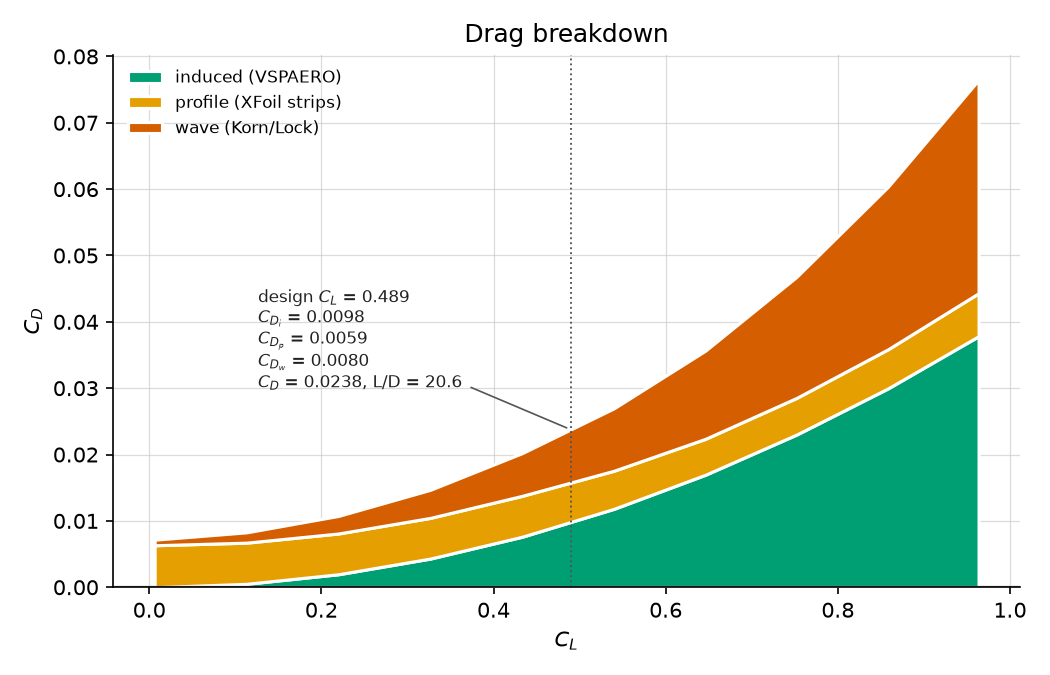
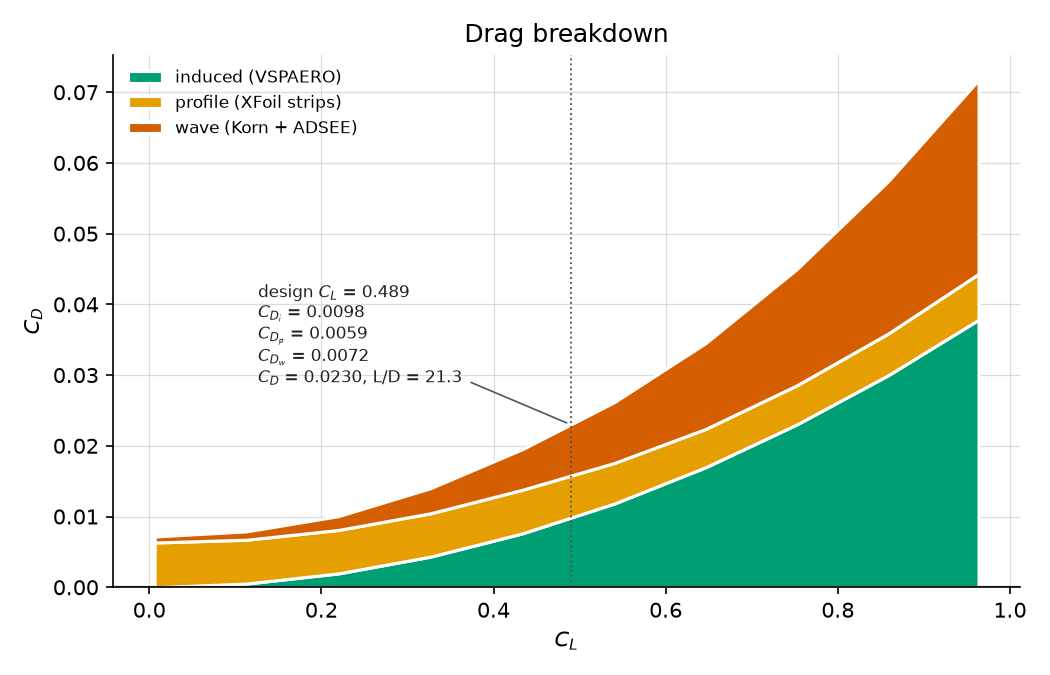
Fixing the labels and assumptions for stall

diff --git a/wp2/src/b12wp2/wing/vspaero.py b/wp2/src/b12wp2/wing/vspaero.py
@@ -1,10 +1,10 @@
 # SPDX-License-Identifier: GPL-3.0-or-later
 # Copyright (C) 2026 Mateusz Suszynski
 # Created: 2026-09-22
-"""3D wing analysis at cruise: VSPAERO (VLM) + XFoil profile drag + Korn/Lock
+"""3D wing analysis at cruise: VSPAERO (VLM) + XFoil profile drag + ADSEE
 wave drag, for the wing of b12wp2.wing.geometry with NACA 25112 sections.
 
-    CD = CDi (VSPAERO, Trefftz plane) + CD_profile (XFoil strips) + CD_wave (Korn/Lock)
+    CD = CDi (VSPAERO, Trefftz plane) + CD_profile (XFoil strips) + CD_wave (ADSEE)
 
 - VSPAERO: inviscid VLM angle-of-attack sweep at the cruise condition of
   config.CRUISE. Kept: CL, CMy and the wake (Trefftz-plane) induced drag
@@ -13,7 +13,8 @@ wave drag, for the wing of b12wp2.wing.geometry with NACA 25112 sections.
 - Profile drag: the spanwise strip loads of every angle of attack are run
   through the XFoil cruise polar, see b12wp2.wing.viscous_correction.
 - Wave drag: XFoil models no shocks, so wave drag is added from the swept
-  Korn equation (kappa_A from config.kappa_a) and Lock's approximation.
+  Korn equation (kappa_A from config.kappa_a) and the ADSEE drag-rise
+  formula, see b12wp2.wing.viscous_correction.wave_drag.
 
 Lift and pitching moment stay inviscid (no viscous decambering); only drag
 is corrected.
@@ -207,8 +208,8 @@ def build_polar(
             vc.sweep_drag_factor(SWEEP_DRAG_MODE_SENSITIVITY, config.SWEEP_RAD)
             / vc.sweep_drag_factor(SWEEP_DRAG_MODE, config.SWEEP_RAD)
         )
-        m_dd, m_crit = vc.korn_swept(KAPPA_A, T_C, float(p["CL"]), SWEEP_KORN)
-        cd_wave = vc.lock_wave_drag(MACH, m_crit)
+        m_dd = vc.korn_swept(KAPPA_A, T_C, float(p["CL"]), SWEEP_KORN)
+        cd_wave = vc.wave_drag(MACH, m_dd)
         cd = p["CDi"] + cd_prof + cd_wave
         ratio = s_out["cl_n"] / cl_max_n
         rows.append(
@@ -216,7 +217,6 @@ def build_polar(
                 **p.to_dict(),
                 "CD_profile": cd_prof,
                 f"CD_profile_{SWEEP_DRAG_MODE_SENSITIVITY}": cd_prof_sens,
-                "M_crit": m_crit,
                 "M_dd": m_dd,
                 "CD_wave": cd_wave,
                 "CD": cd,
@@ -254,7 +254,7 @@ def summarise(polar: pd.DataFrame) -> dict[str, float]:
     ratio, cl_w = upper["max_cl_ratio"].to_numpy(), upper["CL"].to_numpy()
     cl_first_stall = float(np.interp(1.0, ratio, cl_w)) if ratio.max() >= 1.0 > ratio.min() else float("nan")
 
-    m_dd, m_crit = vc.korn_swept(KAPPA_A, T_C, CL_DESIGN, SWEEP_KORN)
+    m_dd = vc.korn_swept(KAPPA_A, T_C, CL_DESIGN, SWEEP_KORN)
     return {
         "CL_design": CL_DESIGN,
         "alpha_design": _at_cl(polar, "alpha", CL_DESIGN),
@@ -273,7 +273,6 @@ def summarise(polar: pd.DataFrame) -> dict[str, float]:
         "CL_alpha_per_rad": cl_alpha,
         "alpha_0L": _at_cl(polar, "alpha", 0.0),
         "CL_first_section_stall": cl_first_stall,
-        "M_crit_design": m_crit,
         "M_dd_design": m_dd,
         "mach": MACH,
         "t_c": T_C,

diff --git a/wp2/src/b12wp2/hld/sizing.py b/wp2/src/b12wp2/hld/sizing.py
@@ -8,6 +8,7 @@ For a device spanning eta_in..eta_out of the semi-span:
     dCL_max   = 0.9 * dcl_max * (S_wf / S) * cos(sweep_hinge)
     S' / S    = 1 + (S_wf / S) * (c'/c - 1)          -> CL_alpha' = CL_alpha * S'/S
     da_0L     = da_0L,airfoil * (S_wf / S) * cos(sweep_hinge)   (trailing edge only)
+    alpha_s   = CL_max / CL_alpha + alpha_0L + dalpha_CLmax      (DATCOM, high-AR wings)
 
 with S_wf the (full-chord) wing area covered by the device, dcl_max the
 airfoil increment of the device type (config.hld device tables), c'/c the chord
@@ -109,6 +110,12 @@ def device_effect(
     )
 
 
+def stall_angle(cl_max: float, cl_alpha_per_deg: float, alpha_0l_deg: float) -> float:
+    """High-AR wing stall angle [deg]: CL_max / CL_alpha + alpha_0L + dalpha_CLmax,
+    with dalpha_CLmax from the DATCOM chart (config.hld.DALPHA_CLMAX_DEG)."""
+    return cl_max / cl_alpha_per_deg + alpha_0l_deg + cfg.DALPHA_CLMAX_DEG
+
+
 @dataclass(frozen=True)
 class CleanWing:
     """Clean-wing lift characteristics (from VSPAERO + XFoil landing polar)."""
@@ -116,14 +123,11 @@ class CleanWing:
     cl_max: float
     cl_alpha_per_deg: float
     alpha_0l_deg: float
-    alpha_stall_deg: float
+    alpha_crit_deg: float  # wing alpha at which the first strip reaches the section cl_max
 
     @property
-    def alpha_offset_deg(self) -> float:
-        """Stall angle beyond the linear-lift intercept of CL_max:
-        alpha_stall - (alpha_0L + CL_max / CL_alpha). Carried over unchanged
-        to the flapped configurations."""
-        return self.alpha_stall_deg - (self.alpha_0l_deg + self.cl_max / self.cl_alpha_per_deg)
+    def alpha_stall_deg(self) -> float:
+        return stall_angle(self.cl_max, self.cl_alpha_per_deg, self.alpha_0l_deg)
 
 
 @dataclass(frozen=True)
@@ -153,8 +157,7 @@ def configuration(
     cl_max = clean.cl_max + dcl_max
     cl_alpha = clean.cl_alpha_per_deg * area_ratio
     alpha_0l = clean.alpha_0l_deg + dalpha_scale * (te.dalpha_0l_deg + le.dalpha_0l_deg)
-    alpha_stall = alpha_0l + cl_max / cl_alpha + clean.alpha_offset_deg
-    return Configuration(cl_max, cl_alpha, alpha_0l, alpha_stall)
+    return Configuration(cl_max, cl_alpha, alpha_0l, stall_angle(cl_max, cl_alpha, alpha_0l))
 
 
 def min_eta_out(

diff --git a/wp2/src/b12wp2/wing/viscous_correction.py b/wp2/src/b12wp2/wing/viscous_correction.py
@@ -148,25 +148,26 @@ def strip_profile_drag(
 
 
 # ============================================================
-#  WAVE DRAG (Korn equation + Lock's approximation)
+#  WAVE DRAG (ADSEE: Korn equation + empirical drag rise)
 # ============================================================
 
-# M_crit = M_dd - (0.1 / 80)^(1/3): the Mach at which Lock's
-# 20 (M - M_crit)^4 reaches dCD/dM = 0.1, i.e. the drag-divergence definition.
-KORN_MCRIT_OFFSET = (0.1 / 80) ** (1 / 3)
 
-
-def korn_swept(kappa_a: float, t_c: float, cl: float, sweep_rad: float) -> tuple[float, float]:
-    """(M_dd, M_crit) of a swept wing from the Korn equation with simple
-    sweep theory: M_dd = kappa/cos - (t/c)/cos^2 - CL/(10 cos^3).
+def korn_swept(kappa_a: float, t_c: float, cl: float, sweep_rad: float) -> float:
+    """M_dd of a swept wing from the Korn equation with simple sweep theory:
+    M_dd = kappa/cos - (t/c)/cos^2 - CL/(10 cos^3).
 
     Reduces to compressibility.korn_mdd for zero sweep.
     """
     cos_s = math.cos(sweep_rad)
-    m_dd = kappa_a / cos_s - t_c / cos_s**2 - cl / (10 * cos_s**3)
-    return m_dd, m_dd - KORN_MCRIT_OFFSET
+    return kappa_a / cos_s - t_c / cos_s**2 - cl / (10 * cos_s**3)
 
 
-def lock_wave_drag(mach: float, m_crit: float) -> float:
-    """Lock's approximation: CD_wave = 20 (M - M_crit)^4 for M > M_crit."""
-    return 20 * (mach - m_crit) ** 4 if mach > m_crit else 0.0
+def wave_drag(mach: float, m_dd: float) -> float:
+    """ADSEE wave drag (0.002 at M = M_dd):
+
+        M <  M_dd:  CD_wave = 0.002 [1 + 2.5 (M_dd - M) / 0.05]^-1
+        M >= M_dd:  CD_wave = 0.002 [1 + (M - M_dd) / 0.05]^2.5
+    """
+    if mach < m_dd:
+        return 0.002 / (1 + 2.5 * (m_dd - mach) / 0.05)
+    return 0.002 * (1 + (mach - m_dd) / 0.05) ** 2.5

diff --git a/wp2/tests/test_hld_sizing.py b/wp2/tests/test_hld_sizing.py
@@ -62,7 +62,7 @@ def test_leading_edge_device_does_not_shift_zero_lift_angle() -> None:
 
 
 def test_takeoff_setting_scales_increments() -> None:
-    clean = hs.CleanWing(cl_max=1.4, cl_alpha_per_deg=0.08, alpha_0l_deg=-3.0, alpha_stall_deg=15.0)
+    clean = hs.CleanWing(cl_max=1.4, cl_alpha_per_deg=0.08, alpha_0l_deg=-3.0, alpha_crit_deg=15.0)
     te = hs.device_effect(RECT, FOWLER, 0.3, 0.0, 0.6)
     le = hs.device_effect(RECT, SLAT, 0.15, 0.0, 0.9)
     land = hs.configuration(clean, te, le)
@@ -75,11 +75,22 @@ def test_takeoff_setting_scales_increments() -> None:
 
 
 def test_clean_configuration_reproduces_clean_stall_angle() -> None:
-    clean = hs.CleanWing(cl_max=1.4, cl_alpha_per_deg=0.08, alpha_0l_deg=-3.0, alpha_stall_deg=16.0)
+    clean = hs.CleanWing(cl_max=1.4, cl_alpha_per_deg=0.08, alpha_0l_deg=-3.0, alpha_crit_deg=16.0)
     none = hs.DeviceEffect(0.0, 0.0, 0.0, 1.0, 0.0)
     cfg = hs.configuration(clean, none, none)
     assert cfg.alpha_stall_deg == pytest.approx(clean.alpha_stall_deg)
     assert cfg.cl_max == pytest.approx(clean.cl_max)
+
+
+def test_stall_angle_is_datcom_high_ar_estimate() -> None:
+    clean = hs.CleanWing(cl_max=1.4, cl_alpha_per_deg=0.08, alpha_0l_deg=-3.0, alpha_crit_deg=16.0)
+    assert clean.alpha_stall_deg == pytest.approx(1.4 / 0.08 - 3.0 + hld_cfg.DALPHA_CLMAX_DEG)
+    te = hs.device_effect(RECT, FOWLER, 0.3, 0.0, 0.6)
+    le = hs.device_effect(RECT, SLAT, 0.15, 0.0, 0.9)
+    land = hs.configuration(clean, te, le)
+    assert land.alpha_stall_deg == pytest.approx(
+        land.cl_max / land.cl_alpha_per_deg + land.alpha_0l_deg + hld_cfg.DALPHA_CLMAX_DEG
+    )
 
 
 def test_min_eta_out_meets_requirement_exactly() -> None:

diff --git a/wp2/src/b12wp2/hld/analysis.py b/wp2/src/b12wp2/hld/analysis.py
@@ -7,7 +7,9 @@ added to, and the comparison across every TE x LE combination.
 1. Clean-wing CL_max at M ~ 0.2 (config.LANDING: sea level, 65 m/s):
    VSPAERO (VLM) spanwise lift + critical-section method with the XFoil
    landing polar -- the wing CL at which the first strip's sweep-normal
-   cl_n = cl / cos^2(sweep) reaches the section cl_max.
+   cl_n = cl / cos^2(sweep) reaches the section cl_max. The linear VLM lift
+   curve has no pre-stall round-off, so the stall angle is not that wing
+   alpha but the DATCOM high-AR estimate (b12wp2.hld.sizing.stall_angle).
 2. Every trailing-edge x leading-edge device combination of
    config.hld.TE_DEVICES x config.hld.LE_DEVICES, sized on the same
    available span, through the ADSEE empirical increments (b12wp2.hld.sizing),
@@ -73,9 +75,9 @@ def clean_wing() -> tuple[hs.CleanWing, pd.DataFrame, pd.DataFrame, float]:
             "clean_wing: section cl_max not reached inside the alpha sweep, "
             f"widen config.solvers.HLD_ALPHA_END (max cl_n / cl_max_n = {up['max_cl_ratio'].max():.3f})"
         )
-    alpha_stall = float(np.interp(1.0, up["max_cl_ratio"], up["alpha"]))
-    cl_max = float(np.interp(alpha_stall, up["alpha"], up["CL"]))
-    return hs.CleanWing(cl_max, float(cl_alpha), alpha_0l, alpha_stall), polar, strips, cl_max_n
+    alpha_crit = float(np.interp(1.0, up["max_cl_ratio"], up["alpha"]))
+    cl_max = float(np.interp(alpha_crit, up["alpha"], up["CL"]))
+    return hs.CleanWing(cl_max, float(cl_alpha), alpha_0l, alpha_crit), polar, strips, cl_max_n
 
 
 # ============================================================

diff --git a/wp2/src/b12wp2/plots/vspaero.py b/wp2/src/b12wp2/plots/vspaero.py
@@ -105,7 +105,7 @@ def plot_drag_breakdown(polar: pd.DataFrame, summary: dict[str, float], out_dir:
     ax.stackplot(
         p["CL"], p["CDi"], p["CD_profile"], p["CD_wave"],
         colors=[C_INDUCED, C_PROFILE, C_WAVE], edgecolor="white", linewidth=1.5,
-        labels=["induced (VSPAERO)", "profile (XFoil strips)", "wave (Korn/Lock)"],
+        labels=["induced (VSPAERO)", "profile (XFoil strips)", "wave (Korn + ADSEE)"],
     )
     cl_d = summary["CL_design"]
     _design_line(ax, cl_d, horizontal=False)
@@ -170,11 +170,10 @@ def plot_span_loads(strips: pd.DataFrame, section: pd.DataFrame, out_dir: Path) 
 def plot_transonic(summary: dict[str, float], out_dir: Path) -> None:
     cls = np.linspace(0.0, 1.0, 41)
     sweep = math.radians(summary["sweep_korn_deg"])
-    korn = np.array([vc.korn_swept(summary["kappa_a"], summary["t_c"], c, sweep) for c in cls])
+    m_dd = [vc.korn_swept(summary["kappa_a"], summary["t_c"], c, sweep) for c in cls]
 
     fig, ax = plt.subplots(figsize=(6.5, 4.5))
-    ax.plot(korn[:, 0], cls, "-", color=C_TOTAL, lw=2, label="$M_{dd}$")
-    ax.plot(korn[:, 1], cls, "--", color=C_WAVE, lw=2, label="$M_{crit}$")
+    ax.plot(m_dd, cls, "-", color=C_TOTAL, lw=2, label="$M_{dd}$")
     ax.axvline(summary["mach"], color="#222222", lw=1.1)
     ax.annotate(f"flight M = {summary['mach']:.3f}", (summary["mach"], 0.97),
                 xycoords=("data", "axes fraction"), xytext=(4, 0), textcoords="offset points",

diff --git a/wp2/scripts/hld_analysis.py b/wp2/scripts/hld_analysis.py
@@ -48,6 +48,8 @@ def main() -> None:
         "mach": config.LANDING.mach_freestream,
         "section_cl_max_n": cl_max_n,
         "CLmax_clean": clean.cl_max,
+        "alpha_crit_clean": clean.alpha_crit_deg,
+        "dalpha_CLmax": cfg.DALPHA_CLMAX_DEG,
         "alpha_stall_clean": clean.alpha_stall_deg,
         "CL_alpha_per_deg": clean.cl_alpha_per_deg,
         "alpha_0L": clean.alpha_0l_deg,
@@ -66,9 +68,13 @@ def main() -> None:
     df.sort_values("CLmax_L", ascending=False).to_csv(paths.HLD_DIR / "comparison.csv", index=False)
 
     print(
-        f"\nClean wing, M = {config.LANDING.mach_freestream:.3f}: CL_max = {clean.cl_max:.3f} at "
-        f"alpha = {clean.alpha_stall_deg:.2f} deg (section cl_max,n = {cl_max_n:.3f}), "
+        f"\nClean wing, M = {config.LANDING.mach_freestream:.3f}: CL_max = {clean.cl_max:.3f} "
+        f"(first section reaches cl_max,n = {cl_max_n:.3f} at alpha = {clean.alpha_crit_deg:.2f} deg), "
         f"CL_alpha = {clean.cl_alpha_per_deg:.4f} /deg, alpha_0L = {clean.alpha_0l_deg:.2f} deg"
+    )
+    print(
+        f"Stall angle (DATCOM, dalpha_CLmax = {cfg.DALPHA_CLMAX_DEG:.1f} deg): "
+        f"alpha_s = {clean.alpha_stall_deg:.2f} deg"
     )
     print(
         f"Devices: TE eta {cfg.ETA_IN}-{cfg.ETA_OUT_TE}, c_f/c = {cfg.FLAP_CHORD_RATIO:.2f}, hinge sweep {te_sweep:.1f} deg; "

diff --git a/wp2/tests/test_viscous_correction.py b/wp2/tests/test_viscous_correction.py
@@ -73,17 +73,15 @@ def test_one_stalled_strip_makes_profile_drag_nan() -> None:
 
 
 def test_korn_swept_reduces_to_unswept_korn() -> None:
-    m_dd, m_crit = vc.korn_swept(0.87, 0.12, 0.5, 0.0)
-    assert m_dd == pytest.approx(compressibility.korn_mdd(0.87, 0.12, 0.5))
-    assert m_dd - m_crit == pytest.approx((0.1 / 80) ** (1 / 3))
+    assert vc.korn_swept(0.87, 0.12, 0.5, 0.0) == pytest.approx(compressibility.korn_mdd(0.87, 0.12, 0.5))
 
 
-def test_lock_wave_drag_is_zero_below_mcrit_and_hits_divergence_slope_at_mdd() -> None:
-    assert vc.lock_wave_drag(0.6, 0.65) == 0.0
-    m_dd, m_crit = vc.korn_swept(0.87, 0.12, 0.5, SWEEP)
-    h = 1e-6
-    slope = (vc.lock_wave_drag(m_dd + h, m_crit) - vc.lock_wave_drag(m_dd - h, m_crit)) / (2 * h)
-    assert slope == pytest.approx(0.1, rel=1e-4)
+def test_wave_drag_matches_adsee_formula_on_both_sides_of_mdd() -> None:
+    assert vc.wave_drag(0.70, 0.70) == pytest.approx(0.002)
+    assert vc.wave_drag(0.65, 0.70) == pytest.approx(0.002 / (1 + 2.5))
+    assert vc.wave_drag(0.75, 0.70) == pytest.approx(0.002 * 2**2.5)
+    h = 1e-9
+    assert vc.wave_drag(0.70 - h, 0.70) == pytest.approx(vc.wave_drag(0.70, 0.70), rel=1e-6)  # continuous
 
 
 def test_load_section_polar_drops_nonconverged_and_post_stall(tmp_path: Path) -> None:

diff --git a/wp2/src/b12wp2/config/hld.py b/wp2/src/b12wp2/config/hld.py
@@ -59,6 +59,14 @@ LE_DEVICES: tuple[Device, ...] = (
 DALPHA_0L_AIRFOIL_LANDING = -15.0
 DALPHA_0L_AIRFOIL_TAKEOFF = -10.0
 
+# Stall angle beyond the linear-lift intercept of CL_max [deg], high-AR wings:
+#     alpha_s = CL_max / CL_alpha + alpha_0L + dalpha_CLmax
+# Read off the DATCOM chart (course Figure 3, 0.2 <= M <= 0.6) for
+# sharpness dY = 26 t/c = 3.12 (NACA 25112, 5-digit, t/c = 0.12) and
+# Lambda_LE = 26.1 deg: between the dY = 3 and dY = 4 curves, close to 3.
+# Manual chart reading: re-read it if the airfoil, t/c or sweep change.
+DALPHA_CLMAX_DEG = 3.0
+
 # Take-off setting as a fraction of the landing-setting dCL_max and c'/c - 1
 TAKEOFF_FRACTION = 0.7
 

diff --git a/wp2/scripts/vspaero_analysis.py b/wp2/scripts/vspaero_analysis.py
@@ -4,8 +4,8 @@
 """WP2: run the 3D wing analysis at cruise and write its results.
 
 Drives b12wp2.wing.vspaero: VSPAERO (VLM) for lift, moment and induced drag,
-the XFoil section polar for profile drag, the swept Korn equation and Lock's
-approximation for wave drag. Prints the corrected polar and the key figures
+the XFoil section polar for profile drag, the swept Korn equation and the
+ADSEE drag-rise formula for wave drag. Prints the corrected polar and the key figures
 of it, then draws the plots.
 
 Must be run from the OpenVSP Python environment, from the wp2/ folder:

diff --git a/wp2/README.md b/wp2/README.md
@@ -410,7 +410,7 @@ first, then the VSPAERO scripts in `openvsp`.
 `config/wing.py` and `wing/geometry.py`, NACA 25112 sections) at the `config.CRUISE`
 condition:
 
-    CD = CDi (VSPAERO, Trefftz plane) + CD_profile (XFoil strips) + CD_wave (Korn/Lock)
+    CD = CDi (VSPAERO, Trefftz plane) + CD_profile (XFoil strips) + CD_wave (Korn + ADSEE)
 
 - **VSPAERO (VLM)** gives CL, CMy and the induced drag. Its own `CDo` (a
   flat-plate skin-friction estimate) is discarded.
@@ -422,8 +422,10 @@ condition:
   correction (c / c_ref)^-0.2 -> integrated over the span. A strip past
   the polar's cl_max gets cd = NaN (and the whole angle of attack has no
   CD); the first such wing CL is reported as `CL_first_section_stall`.
-- **Wave drag**: swept Korn equation (kappa_A from `config.kappa_a`) with
-  Lock's 20 (M - M_crit)^4.
+- **Wave drag** (ADSEE): M_dd from the swept Korn equation (kappa_A from
+  `config.kappa_a`, half-chord sweep), then
+  CD_wave = 0.002 [1 + 2.5 (M_dd - M) / 0.05]^-1 for M < M_dd and
+  0.002 [1 + (M - M_dd) / 0.05]^2.5 for M >= M_dd.
 
 Lift and moment stay inviscid. Details in `wing/viscous_correction.py`.
 
@@ -450,7 +452,9 @@ from `wp2/`) compares every trailing-edge x leading-edge device combination
    critical-section method with the XFoil landing polar.
 2. ADSEE increments per device (`hld/sizing.py`):
    dCL_max = 0.9 dcl_max (S_wf/S) cos(Lambda_hinge), S'/S, and the
-   alpha_0L shift; take-off = 60% of the landing increment.
+   alpha_0L shift; take-off = 60% of the landing increment. Stall angle
+   alpha_s = CL_max / CL_alpha + alpha_0L + dalpha_CLmax (DATCOM, high-AR
+   wings), with dalpha_CLmax read off the chart (`config.hld.DALPHA_CLMAX_DEG`).
 3. Pareto front of CL_max,L vs. a qualitative mechanism-complexity rank.
 
 Span limits, spar positions and the (optional) CL_max requirements are the
